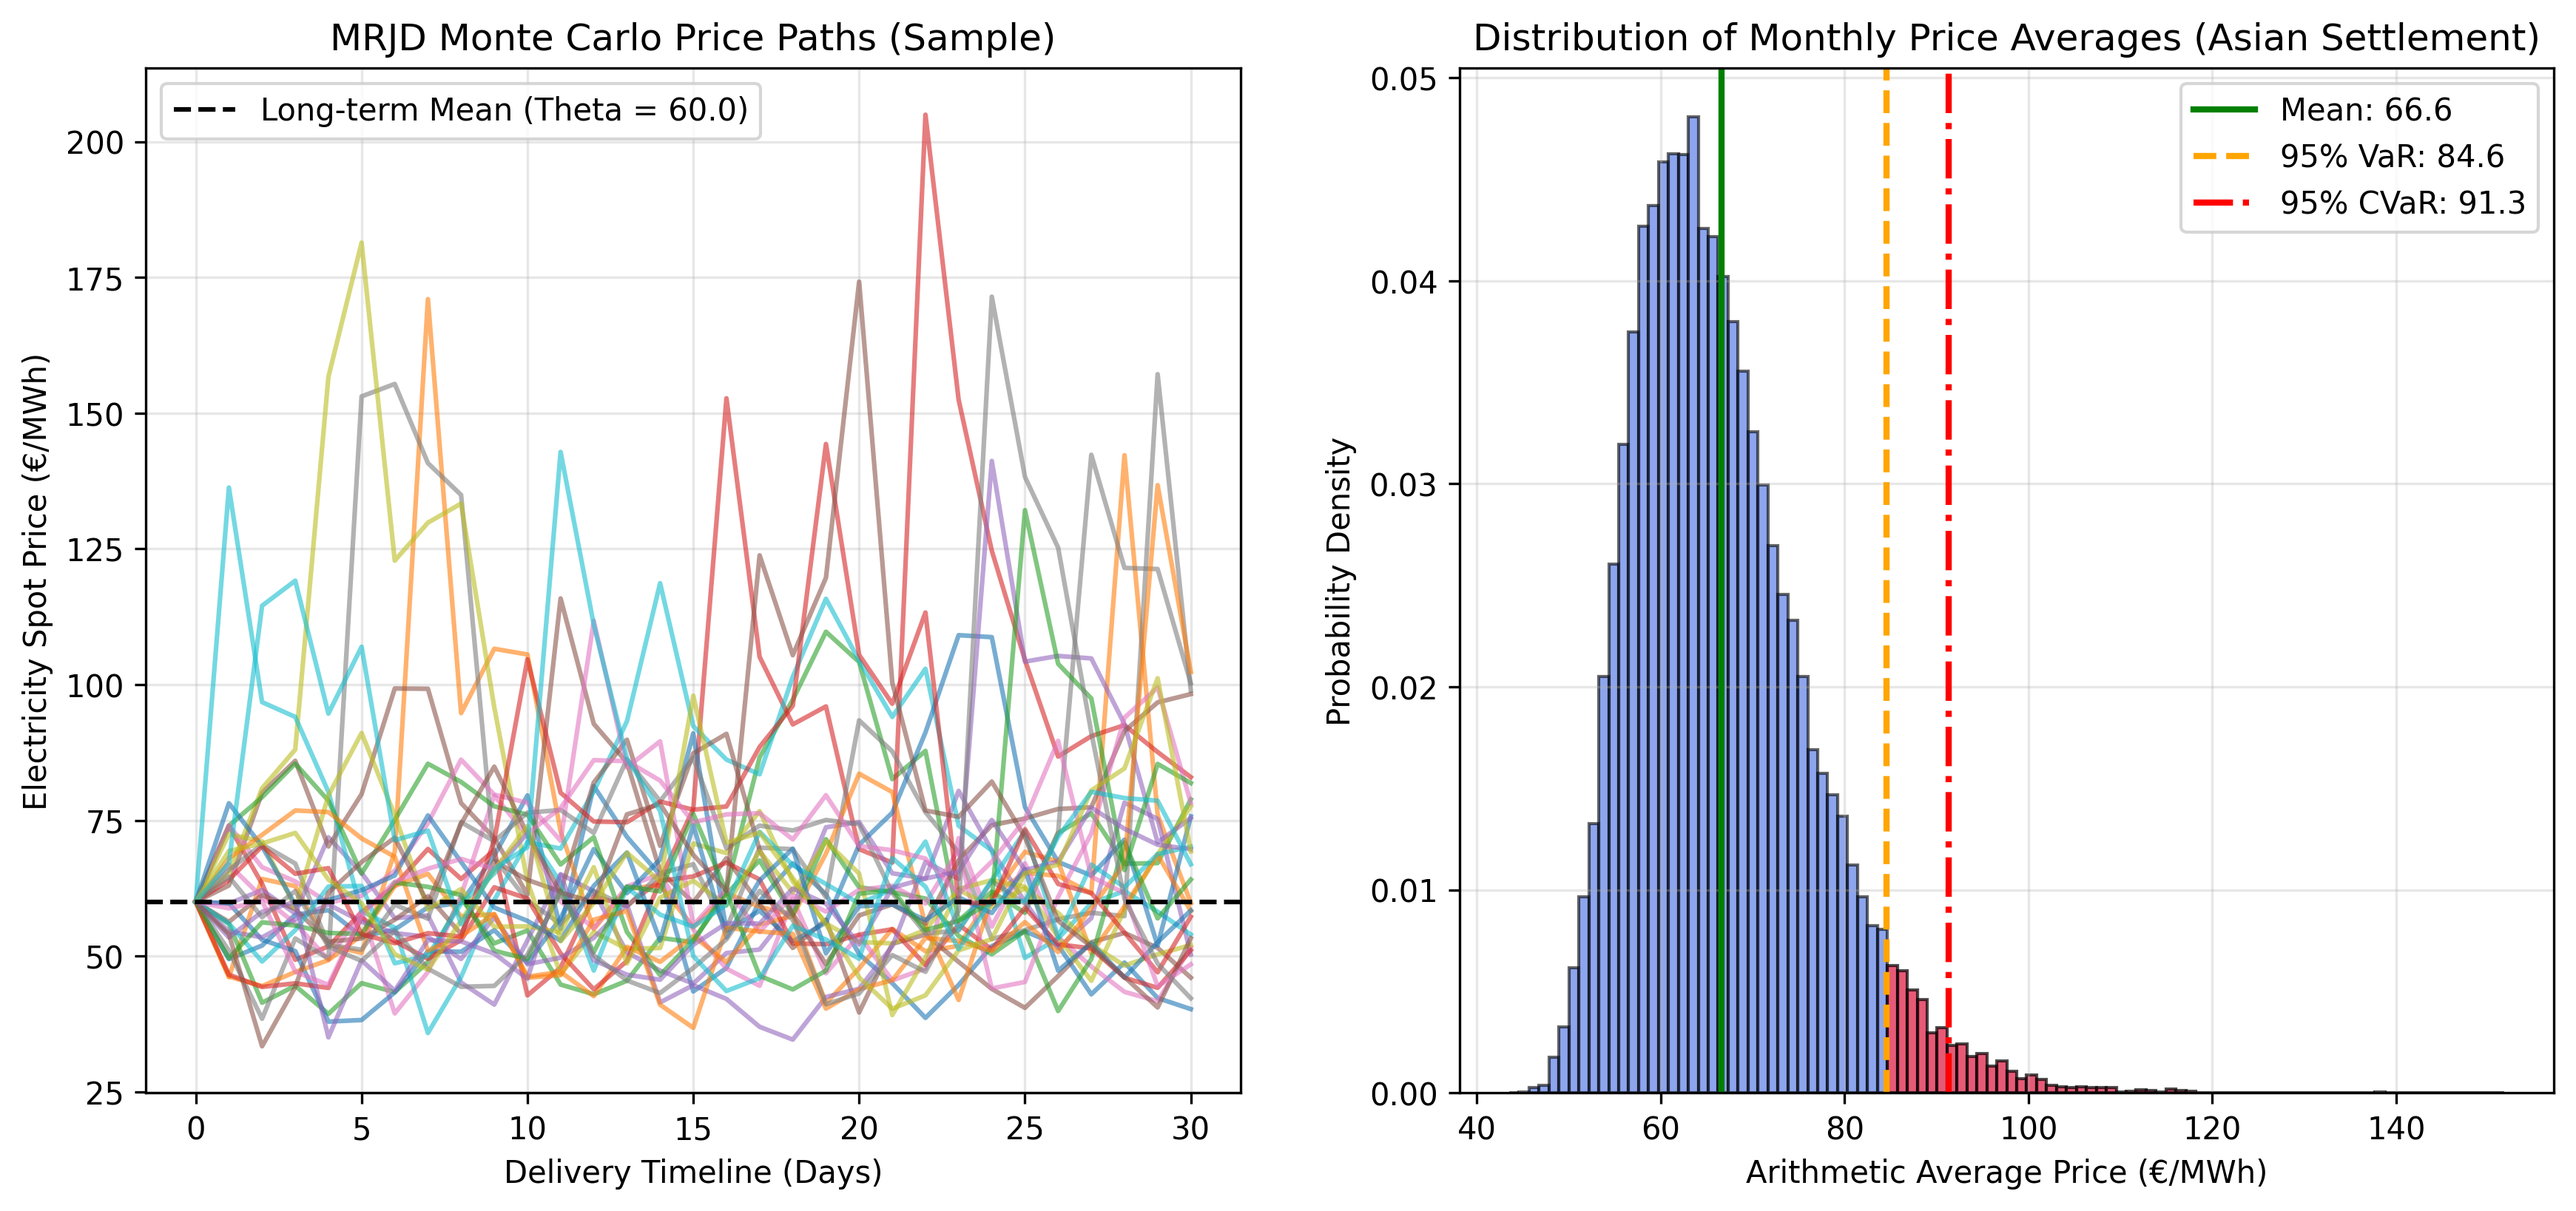
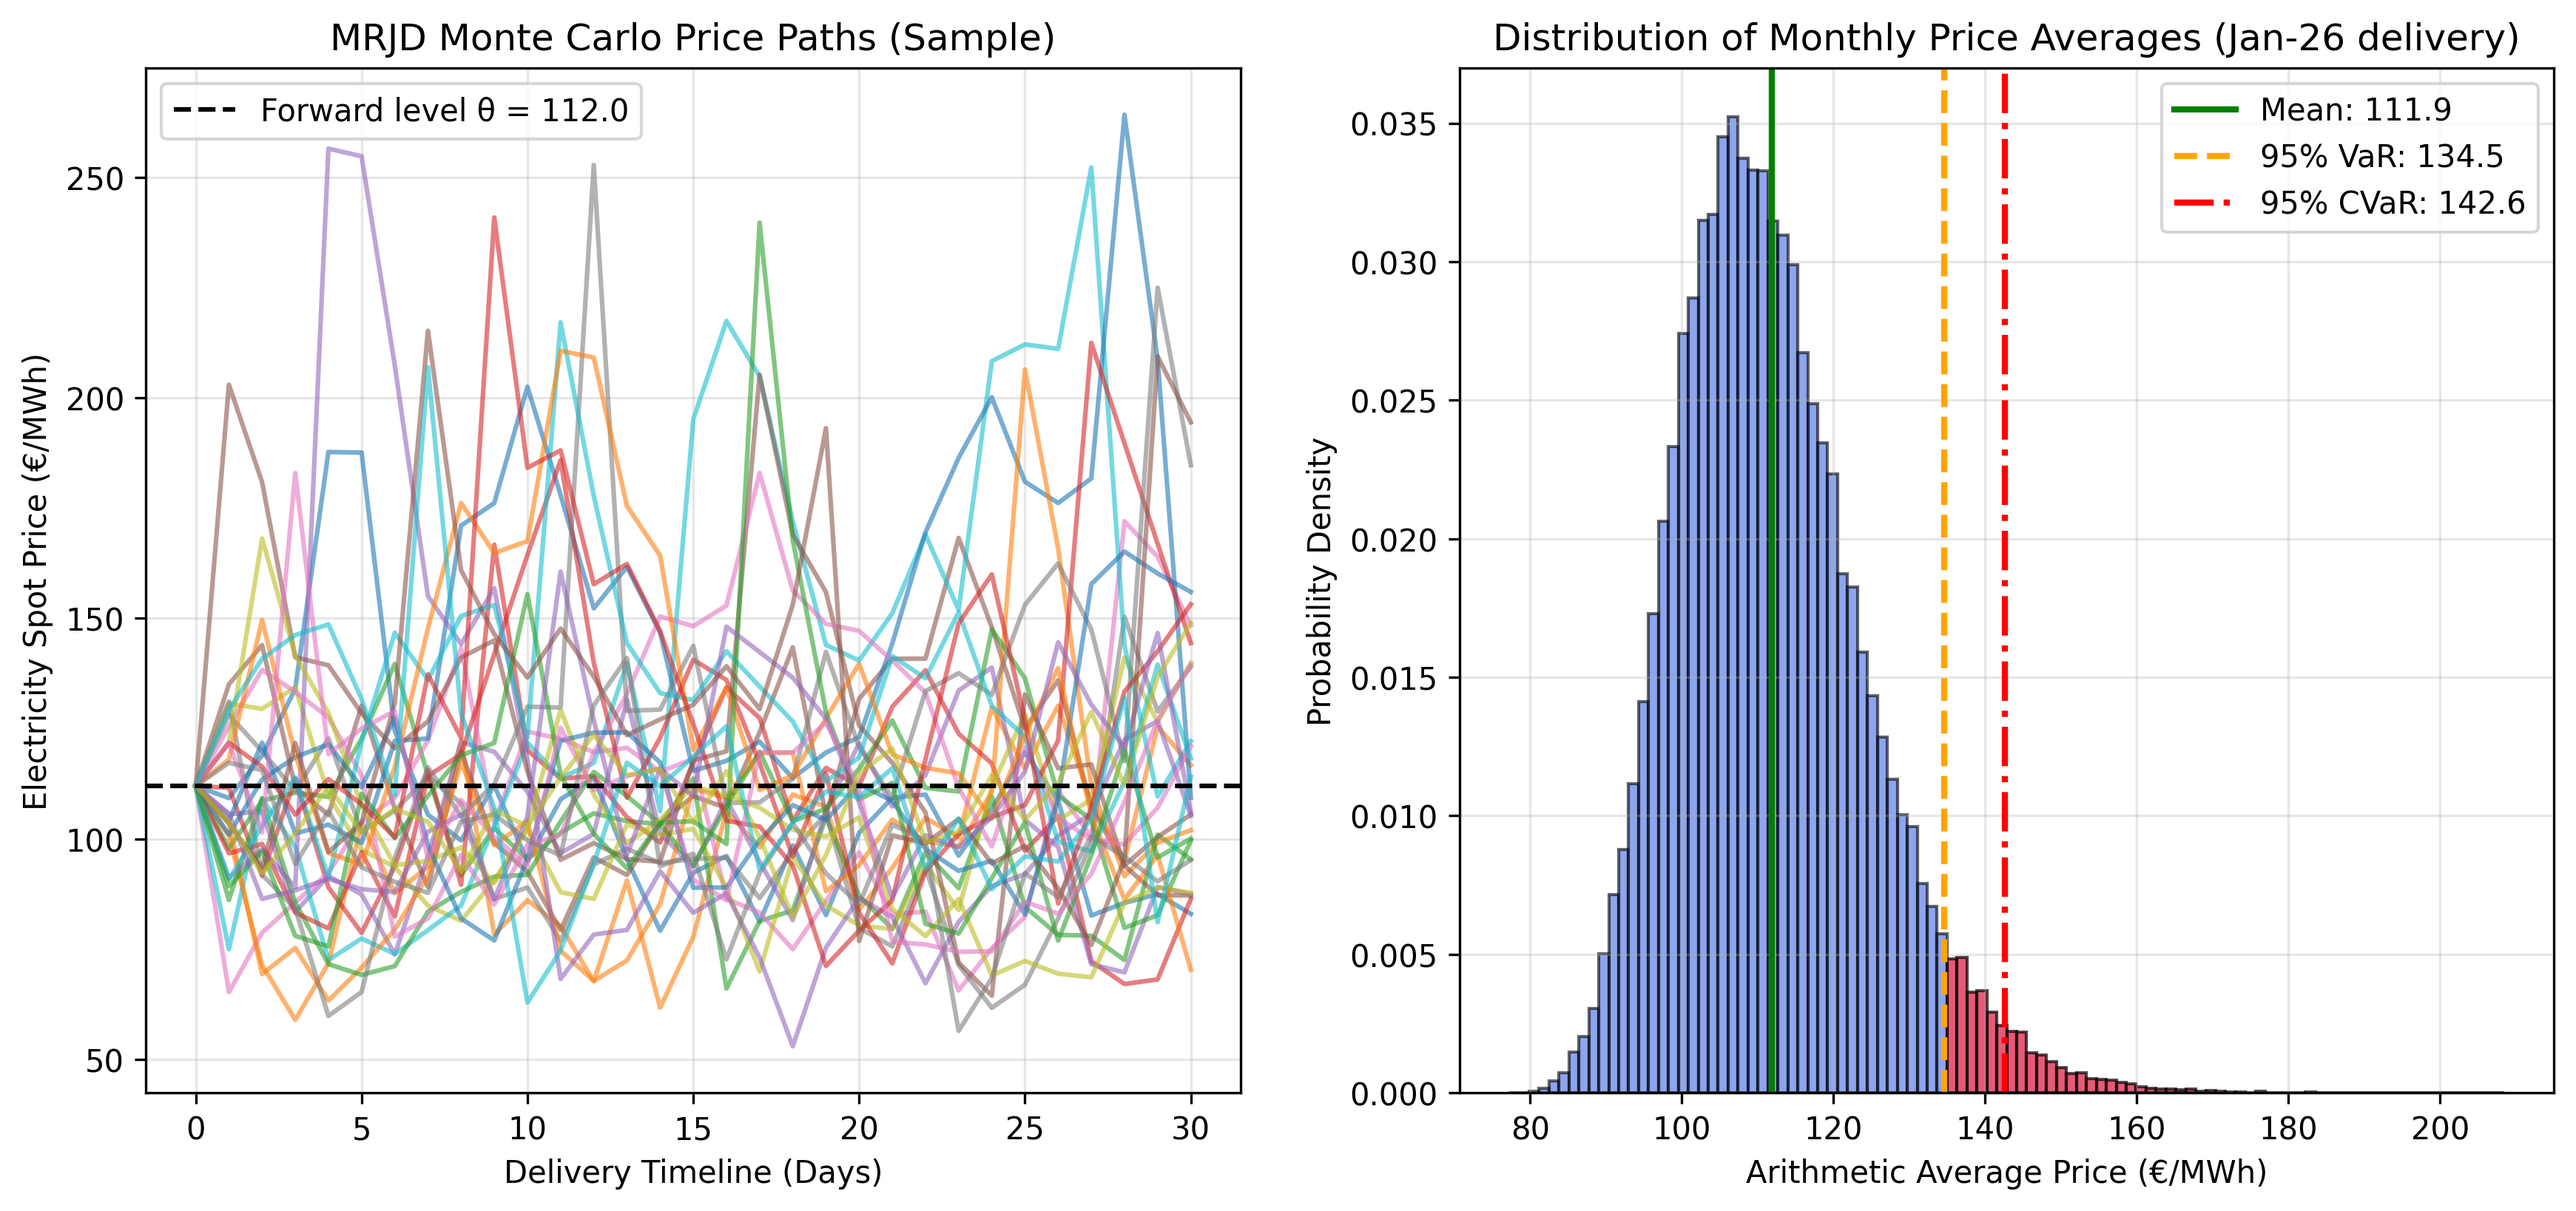
feat: anchor MRJD to the forward curve (theta from curve) with jump drift compensation

diff --git a/src/pricing.py b/src/pricing.py
@@ -2,7 +2,8 @@ import numpy as np
 import pandas as pd
 
 
-def price_asian_call_mrjd(S0, kappa, theta, sigma, lam, jump_mu, jump_sigma, K, T, r, paths=20000):
+def price_asian_call_mrjd(S0, kappa, theta, sigma, lam, jump_mu, jump_sigma, K, T, r,
+                          paths=20000, compensate_jumps=False):
     """
     Prices an Asian Call Option using a vectorized Monte Carlo simulation
     under the Mean-Reverting Jump-Diffusion (MRJD) framework.
@@ -10,7 +11,9 @@ def price_asian_call_mrjd(S0, kappa, theta, sigma, lam, jump_mu, jump_sigma, K, 
     Parameters:
     - S0: Initial spot price
     - kappa: Speed of mean reversion
-    - theta: Long-term mean price
+    - theta: Long-term mean level. EITHER a scalar (flat long-term mean) OR an
+             array of length T (a time-varying target theta(t) — e.g. the forward
+             curve, so the model is anchored to quoted market levels).
     - sigma: Diffusion volatility
     - lam: Jump intensity (Poisson process lambda)
     - jump_mu: Mean of the jump magnitude
@@ -19,8 +22,25 @@ def price_asian_call_mrjd(S0, kappa, theta, sigma, lam, jump_mu, jump_sigma, K, 
     - T: Days to maturity/delivery period
     - r: Annual risk-free interest rate
     - paths: Number of simulated Monte Carlo trajectories
+    - compensate_jumps: if True, subtract the expected jump contribution
+             (lambda * jump_mu) from the drift, so that the simulated mean
+             reverts to theta itself rather than overshooting it. This is what
+             lets the simulation reprice the forward curve instead of drifting
+             systematically above it.
+
+    Returns (option_price, S) where S has shape (T+1, paths).
     """
     dt = 1.0  # Daily time step
+
+    # Accept a scalar or a full theta(t) path; broadcast to length T
+    theta_path = np.asarray(theta, dtype=float)
+    if theta_path.ndim == 0:
+        theta_path = np.full(T, float(theta))
+    elif len(theta_path) != T:
+        raise ValueError(f"theta must be scalar or length T={T}, got {len(theta_path)}")
+
+    # Expected jump contribution per day; removing it makes E[S] revert to theta
+    jump_drift = lam * jump_mu if compensate_jumps else 0.0
 
     # Grid initialization: rows = days (time steps), columns = independent simulation paths
     S = np.zeros((T + 1, paths))
@@ -37,8 +57,11 @@ def price_asian_call_mrjd(S0, kappa, theta, sigma, lam, jump_mu, jump_sigma, K, 
         # Calculate jump sizes (only applied if a jump occurs, i.e., dq > 0)
         jumps = np.random.normal(jump_mu, jump_sigma, paths) * (dq > 0)
 
-        # Euler-Maruyama discretization step
-        dS = kappa * (theta - S[t-1, :]) * dt + sigma * S[t-1, :] * dW + jumps
+        # Euler-Maruyama discretization step, targeting theta(t) on this day
+        theta_t = theta_path[t - 1]
+        dS = (kappa * (theta_t - S[t-1, :]) * dt
+              + sigma * S[t-1, :] * dW
+              + jumps - jump_drift * dt)
 
         # Bound prices to prevent non-physical negative drops
         S[t, :] = np.maximum(5.0, S[t-1, :] + dS)

diff --git a/src/risk_analysis.py b/src/risk_analysis.py
@@ -2,29 +2,37 @@ import os
 import numpy as np
 import matplotlib.pyplot as plt
 from pricing import price_asian_call_mrjd
+from forward_curve import build_baseload_curve, add_peak_offpeak, theta_for_month
 
-def run_portfolio_risk_analysis():
+def run_portfolio_risk_analysis(delivery_month=1):
     print("================ PORTFOLIO RISK & TAIL ANALYSIS ================")
 
-    # 1. Define calibrated market parameters (from our calibration engine)
-    S0 = 60.0
+    # 1. Anchor the model to the traded forward curve rather than a flat guess.
+    #    theta is the forward level for the delivery month being analysed.
+    curve = add_peak_offpeak(build_baseload_curve())
+    theta = theta_for_month(curve, delivery_month)
+    S0 = theta                     # start at the forward level for that delivery period
     kappa = 0.3
-    theta = 60.0
     sigma = 0.15
     lam = 0.0274       # Jump frequency
     jump_mu = 80.0     # Asymmetric spike magnitude mean
     jump_sigma = 20.0  # Spike volatility
 
     delivery_days = 30
-    strike = 65.0
+    strike = round(theta * 1.08)   # ~8% out-of-the-money cap, relative to the forward
     risk_free_rate = 0.05
     sim_paths = 50000
 
-    # 2. Run the Monte Carlo simulation engine
+    month_name = curve["Month"].iloc[delivery_month - 1]
+    print(f"Delivery period: {month_name}  |  forward (theta) = {theta:.2f} \u20ac/MWh  |  strike = {strike} \u20ac/MWh")
+
+    # 2. Run the Monte Carlo simulation engine, compensating the jump drift so the
+    #    simulated mean reproduces the forward level (no systematic mispricing).
     print(f"Generating {sim_paths} simulated price paths via MRJD...")
     option_price, S_matrix = price_asian_call_mrjd(
         S0, kappa, theta, sigma, lam, jump_mu, jump_sigma,
-        strike, delivery_days, risk_free_rate, paths=sim_paths
+        strike, delivery_days, risk_free_rate, paths=sim_paths,
+        compensate_jumps=True
     )
 
     # 3. Extract path averages (the basis for electricity contract settlement)
@@ -49,7 +57,7 @@ def run_portfolio_risk_analysis():
     plt.subplot(1, 2, 1)
     sample_paths = 30
     plt.plot(S_matrix[:, :sample_paths], alpha=0.6, linewidth=1.5)
-    plt.axhline(y=theta, color='black', linestyle='--', label=f'Long-term Mean (Theta = {theta})')
+    plt.axhline(y=theta, color="black", linestyle="--", label=f"Forward level \u03b8 = {theta:.1f}")
     plt.title("MRJD Monte Carlo Price Paths (Sample)")
     plt.xlabel("Delivery Timeline (Days)")
     plt.ylabel("Electricity Spot Price (€/MWh)")
@@ -71,7 +79,7 @@ def run_portfolio_risk_analysis():
             patch.set_facecolor('crimson')
             patch.set_alpha(0.7)
 
-    plt.title("Distribution of Monthly Price Averages (Asian Settlement)")
+    plt.title(f"Distribution of Monthly Price Averages ({month_name} delivery)")
     plt.xlabel("Arithmetic Average Price (€/MWh)")
     plt.ylabel("Probability Density")
     plt.grid(True, alpha=0.3)

diff --git a/src/calibration.py b/src/calibration.py
@@ -1,15 +1,16 @@
 import numpy as np
 import pandas as pd
 
-def generate_synthetic_power_data(days=365, seed=None):
-    ...
-    if seed is not None:
-        np.random.seed(seed)
+def generate_synthetic_power_data(days=365, seed=42):
     """
     Simulates a historical Spot Power price series exhibiting Mean Reversion,
     Standard Diffusion, and Poisson Jumps (MRJD).
+
+    seed: fixed integer for a reproducible series (default 42);
+          pass seed=None for a different random series on every run.
     """
-    np.random.seed(seed)
+    if seed is not None:
+        np.random.seed(seed)
     dt = 1.0  # Daily time step
 
     # Target true parameters

diff --git a/README.md b/README.md
@@ -191,7 +191,3 @@ python src/plant_valuation.py   # weather-driven pricing + switching valuation
 - Stochastic, correlated fuel and carbon prices (a cold snap raises gas cost as well as power demand).
 - Multi-state plant constraints: minimum-load, ramp rates, and minimum up/down times (swing-option form).
 - Conditioning scarcity/jump frequency on climate projections to stress-test asset fair value.
-
-## License
-
-Released under the MIT License.
